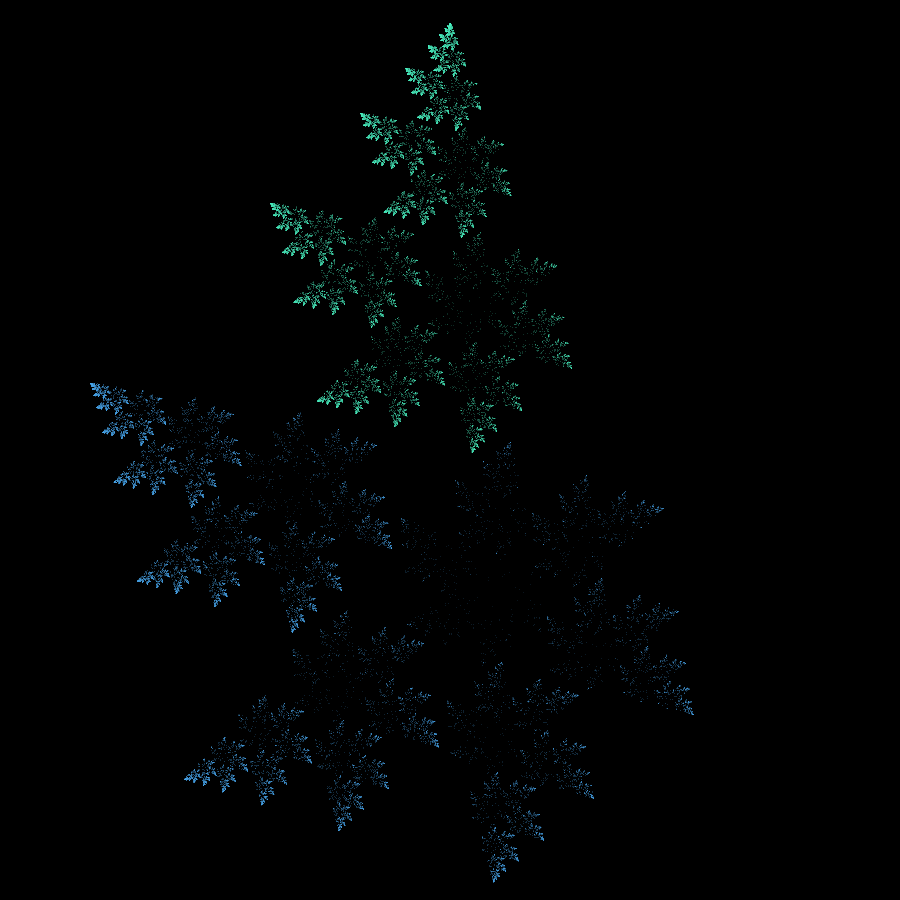
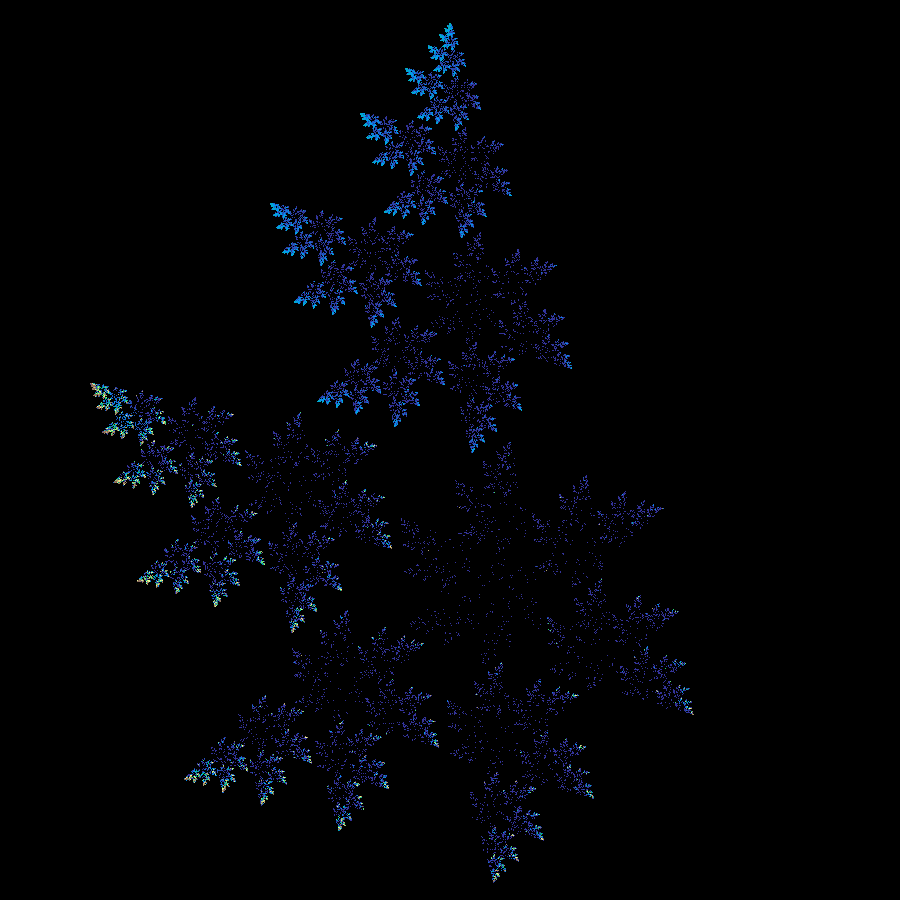
better color mapping

diff --git a/ifs_chaos_game.py b/ifs_chaos_game.py
@@ -98,7 +98,7 @@ def goal1_transformations():
     return final_transform, transformations
 
 
-def adaptive_filter(density_alpha, max_kernel_radius, point_frequencies):
+def adaptive_filter(density_alpha, max_kernel_radius, point_frequencies, point_colors):
     # http://www.eecs.ucf.edu/seniordesign/su2011fa2011/g12/SD1_report.pdf
     # https://pdfs.semanticscholar.org/4522/05fd45452b2963b0d4d998128dba233987d5.pdf
     # https://flam3.com/flame_draves.pdf
@@ -106,7 +106,7 @@ def adaptive_filter(density_alpha, max_kernel_radius, point_frequencies):
 
     # higher density_alpha means smaller minimum kernel width
     kernel_width = max_kernel_radius / (point_frequencies ** density_alpha)
-
+    point_colors_filtered = np.zeros_like(point_colors)
     filtered_histogram = np.zeros_like(point_frequencies)
     unique_values = np.unique(kernel_width)
     # print(unique_values[-1])
@@ -118,12 +118,14 @@ def adaptive_filter(density_alpha, max_kernel_radius, point_frequencies):
         # plt.imshow(this_filtered_image)
         # plt.show()
         filtered_histogram[index] = this_filtered_image[index]
+        this_filtered_colors = scipy.ndimage.filters.gaussian_filter(point_colors, sigma=unique_value)
+        point_colors_filtered[index] = this_filtered_colors[index]
     # for i in range(filtered_histogram.shape[0]):
     #     for j in range(filtered_histogram.shape[1]):
     #         print(i, j)
     #         filtered_histogram[i, j] = scipy.ndimage.filters.gaussian_filter(point_frequencies,
     #                                                                          sigma=kernel_width[i, j])[i, j]
-    return filtered_histogram
+    return filtered_histogram, point_colors_filtered
 
 
 def gamma_correction(gamma, point_colors, point_frequencies):
@@ -132,8 +134,10 @@ def gamma_correction(gamma, point_colors, point_frequencies):
     alpha = np.log(point_frequencies) / np.log(point_frequencies_max)
     # alpha[alpha < 0] = 0
     # alpha += alpha.min()
-    final_pixel_colors = point_colors * (alpha ** (1 / gamma))[:, :, None]
-    return final_pixel_colors
+    final_pixel_colors = point_colors * (alpha ** (1 / gamma))  # [:, :, None]
+    cmap = matplotlib.cm.get_cmap('terrain')
+    final_pixel_colors_mapped = cmap(final_pixel_colors)
+    return final_pixel_colors_mapped
 
 
 def main(n=200000, visualize_algorithm=False):
@@ -151,8 +155,9 @@ def main(n=200000, visualize_algorithm=False):
 
     # number of times a pixel is landed on
     point_frequencies = np.zeros((pixels_width, pixels_height))
-    point_colors = np.zeros((pixels_width, pixels_height, 3))
-    function_colors = np.array([[0.3, 1.0, 0.8], [0.3, 0.7, 1.0]])
+    point_colors = np.zeros((pixels_width, pixels_height))
+    # function_colors = np.array([[0.3, 1.0, 0.8], [0.3, 0.7, 1.0]])
+    function_colors = np.array([0.2, 0.8])
     # final_transform, transformations = goal2_transformations()
     final_transform, transformations = goal1_transformations()
 
@@ -195,17 +200,21 @@ def main(n=200000, visualize_algorithm=False):
 
 
 def process_and_save(density_alpha, epsilon, gamma, max_kernel_radius, point_colors, point_frequencies):
+    background_index = point_frequencies == 0
     point_frequencies += epsilon
     adaptive_filtering = True
     if adaptive_filtering:
-        point_frequencies_filtered = adaptive_filter(density_alpha, max_kernel_radius, point_frequencies)
-        final_pixel_colors_filtered = gamma_correction(gamma, point_colors, point_frequencies_filtered)
+        point_frequencies_filtered, point_colors_filtered = adaptive_filter(density_alpha, max_kernel_radius,
+                                                                            point_frequencies, point_colors)
+        final_pixel_colors_filtered = gamma_correction(gamma, point_colors_filtered, point_frequencies_filtered)
+        final_pixel_colors_filtered[background_index] = [0, 0, 0, 1]
         imageio.imwrite('result_adaptive_filtered.png', final_pixel_colors_filtered)
 
     final_pixel_colors = gamma_correction(gamma, point_colors, point_frequencies)
 
     # final_pixel_colors = ((final_pixel_colors / final_pixel_colors.max()) * 255.0).astype(np.uint8)
     # imageio.imwrite('out.png', final_pixel_colors, transparency=0)
+    final_pixel_colors[background_index] = [0, 0, 0, 1]
     imageio.imwrite('result_not_filtered.png', final_pixel_colors)
     return
 
